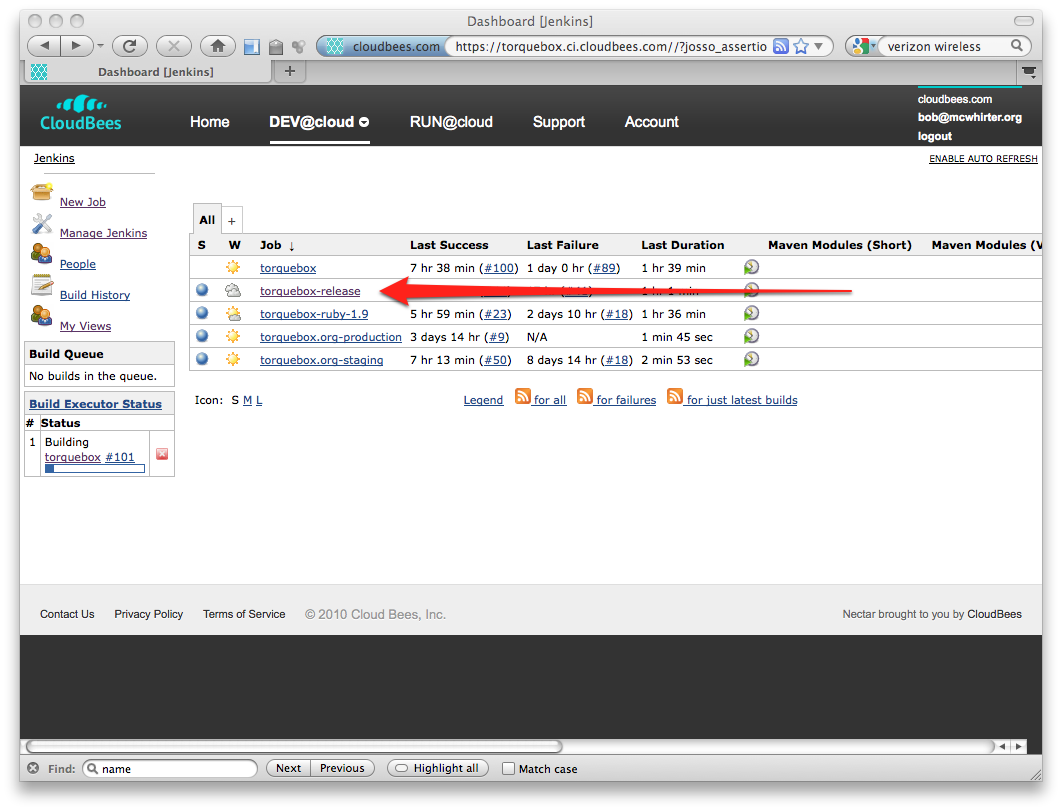
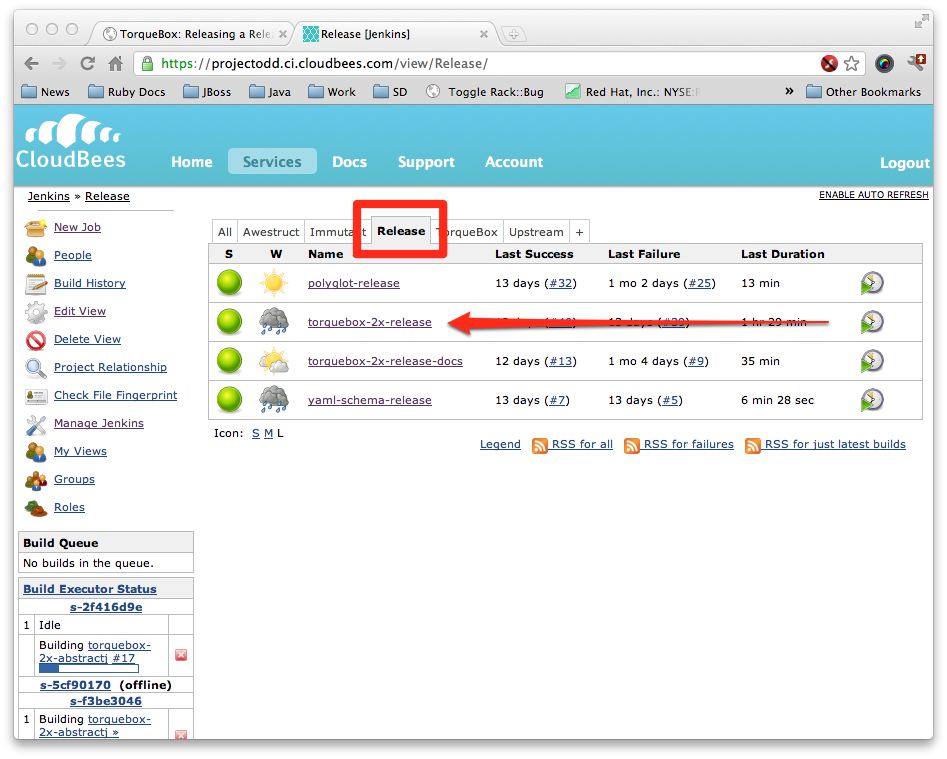
Update the release documentation.

diff --git a/development/2x/releasing.md b/development/2x/releasing.md
@@ -16,7 +16,7 @@ Set up this repository as an additional remote for your workspace:
 Ensure that the tag you are attempting to release does not exist in the release repository,
 or maven will fail part way through the build
 
-    git push release :2.0.0.Beta1
+    git push release :2.0.0.cr1
 
 Ensure that the `2x-dev` branch has the contents you wish to release.  Using the `-f`
 flag to force is allowed in this case, since the **torquebox-release** repository is not
@@ -27,18 +27,22 @@ a public-facing human-cloneable repository.
 # Pre-flight build
 
 Using the [build system](http://projectodd.ci.cloudbees.com/), select the 
-**torquebox-2x-release** job.
+**torquebox-2x-release** job.  This job may be easily found under the 
+**Release** tab in CI.
 
 <img src="/images/releasing/ci.png" style="width: 100%"/>
 
 Enter in the version to release, followed by the **next** version after the release, and
-select the **local** profile.
+select the **release-staging** profile.  The **release-staging** profile can build against
+other projects also built to the **release-staging** repository.  This is useful when
+performing a chain of releasing involving **polyglot**, **torquebox**, and **yaml-schema**
+to ensure they all work together before publishing any to public repositories.
 
 <img src="/images/releasing/start-preflight.png" style="width: 100%"/>
 
 After each pre-flight build, you will need to reset the release repository:
 
-    git push release :2.0.0.Beta1
+    git push release :2.0.0.cr1
     git push release 2x-dev:2x-dev -f
     
 When you are happy with the pre-flight build (in other words, it completes successfully), 
@@ -47,7 +51,7 @@ you're ready to run the real build.
 # Perform the Builds
 
 Using the [build system](http://projectodd.ci.cloudbees.com/), again select the 
-**torquebox-2x-release** job, selecting the **bees** profile this time.
+**torquebox-2x-release** job, selecting the **release** profile this time.
 
 <img src="/images/releasing/start-build.png" style="width: 100%"/>
 
@@ -61,23 +65,6 @@ Verify that the artifacts you expect have been uploaded and deployed to
 
 Once the build has completed, grab the gems from 
 [https://projectodd.ci.cloudbees.com//job/torquebox-release/lastSuccessfulBuild/artifact/assemblage/assembly/target/stage/gem-repo/gems/](https://projectodd.ci.cloudbees.com//job/torquebox-release/lastSuccessfulBuild/artifact/assemblage/assembly/target/stage/gem-repo/gems/) using the 'all files as zip' link.
-    
-Since rubygems checks that the dependencies are available on push, you'll have to push them in a proper order. The
-order that worked for the 1.1.1 release was:
-
-* torquebox-vfs
-* torquebox-base
-* torquebox-capistrano-support
-* torquebox-rake-support
-* torquebox-container-foundation
-* torquebox-messaging-container
-* torquebox-naming-container
-* torquebox-naming
-* torquebox-messaging
-* torquebox-web
-* torquebox
-
-This list will certainly need to be updated for 2.x.
 
 The **_support/publish-gems.rb_** will publish the gems for you in the above order. You'll just need to invoke it from
 within the gems directory, or you can push each gem manually:
@@ -85,6 +72,21 @@ within the gems directory, or you can push each gem manually:
     gem push <gem_name>.gem
     
 Either way, you'll need owner rights to do so - bug bobmcw or tcrawley.
+
+# Build the release API documentation
+
+Under the **Release** tab on CI, there is a **torquebox-2x-release-docs** job which builds
+against a tag in the release git repository, and publishes the API documentation (JavaDoc
+and RDoc) into a maven repository.  
+
+<img src="/images/releasing/ci-docs.png" style="width: 100%"/>
+
+As with the primary release job, you may select either
+the **release-staging** or the public **release** repository to target, depending on your
+confidence.  No preparation or modification of the release repository is needed.  In fact,
+the exact tag pushed by the primary **torquebox-2x-release** job is required to build the docs.
+
+<img src="/images/releasing/start-docs.png" style="width: 100%"/>
 
 # Push changes from the release repository to the official repository
 
@@ -115,3 +117,5 @@ Either way, you'll need owner rights to do so - bug bobmcw or tcrawley.
 ## Notify the `torquebox-users@` list
 
 ## Tweet it.
+
+## Set the /topic in #torquebox IRC channel using ChanServ (if you can).
